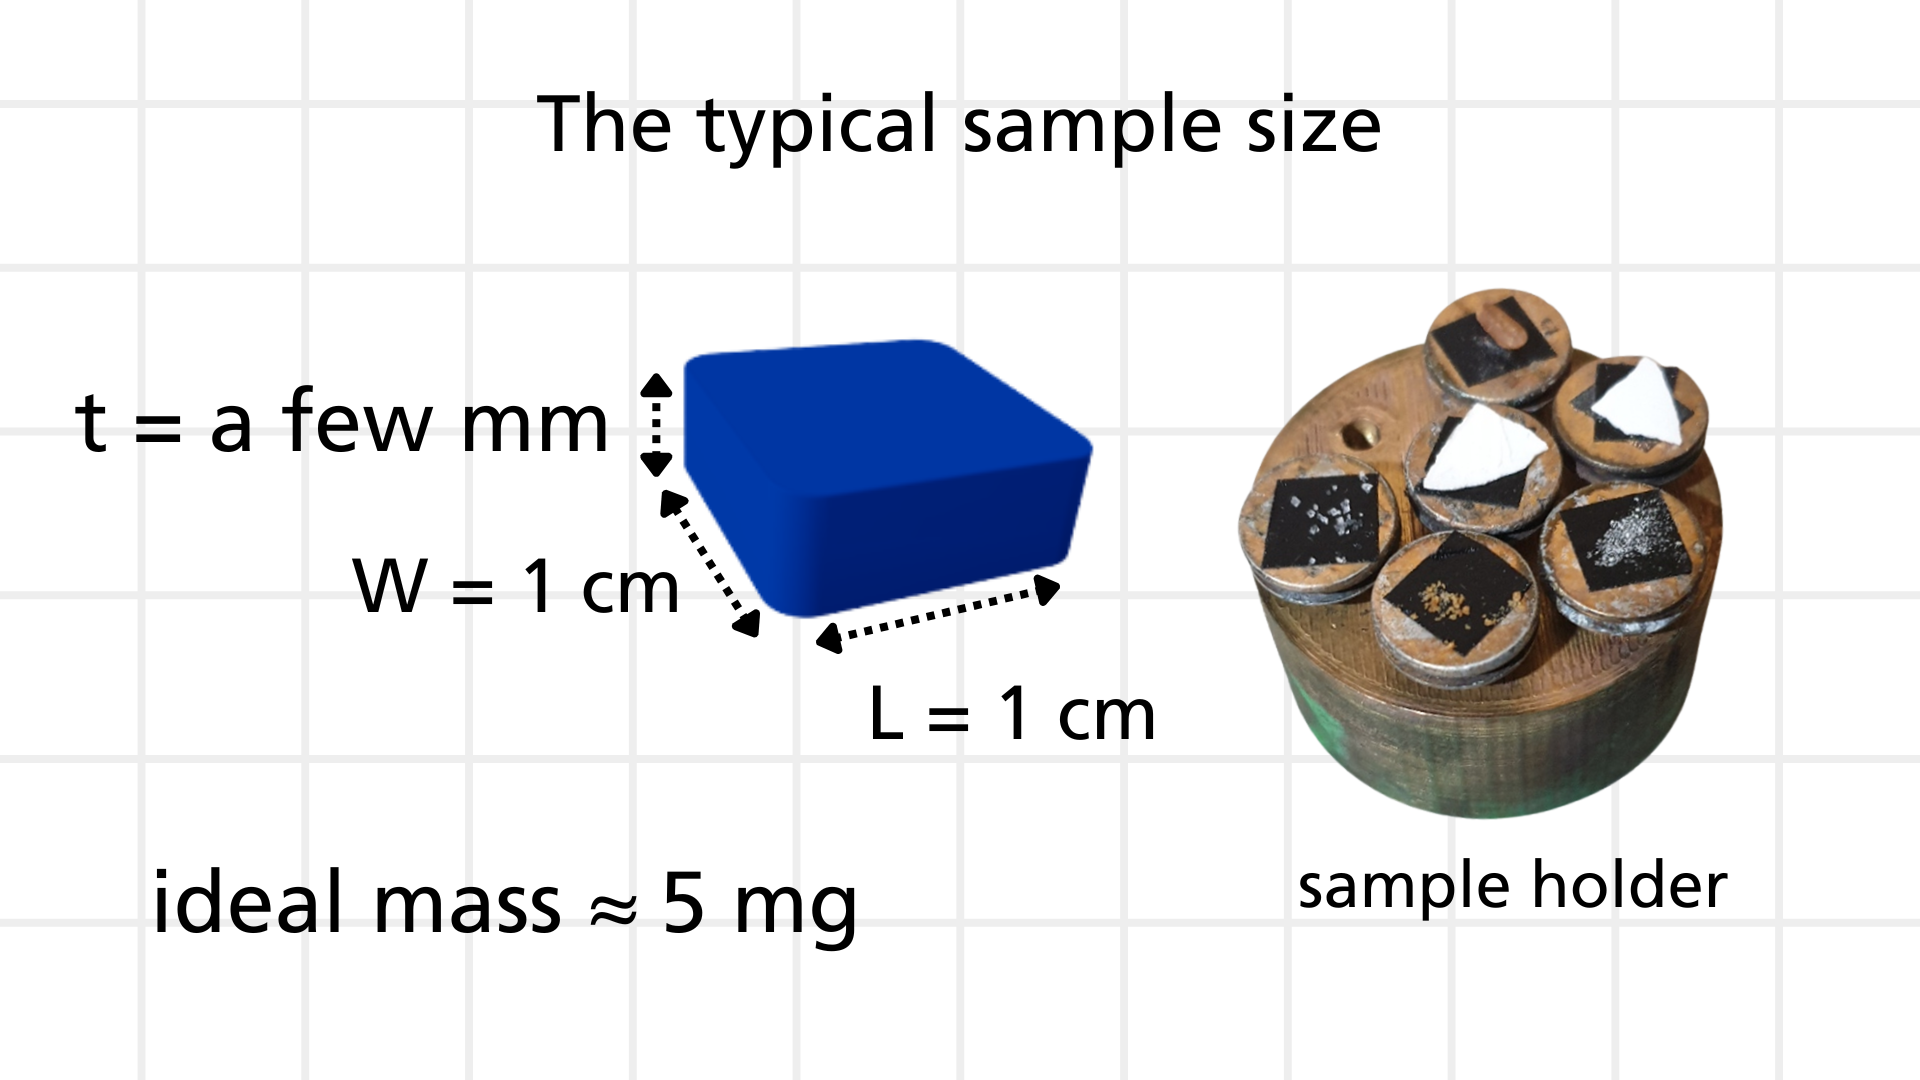
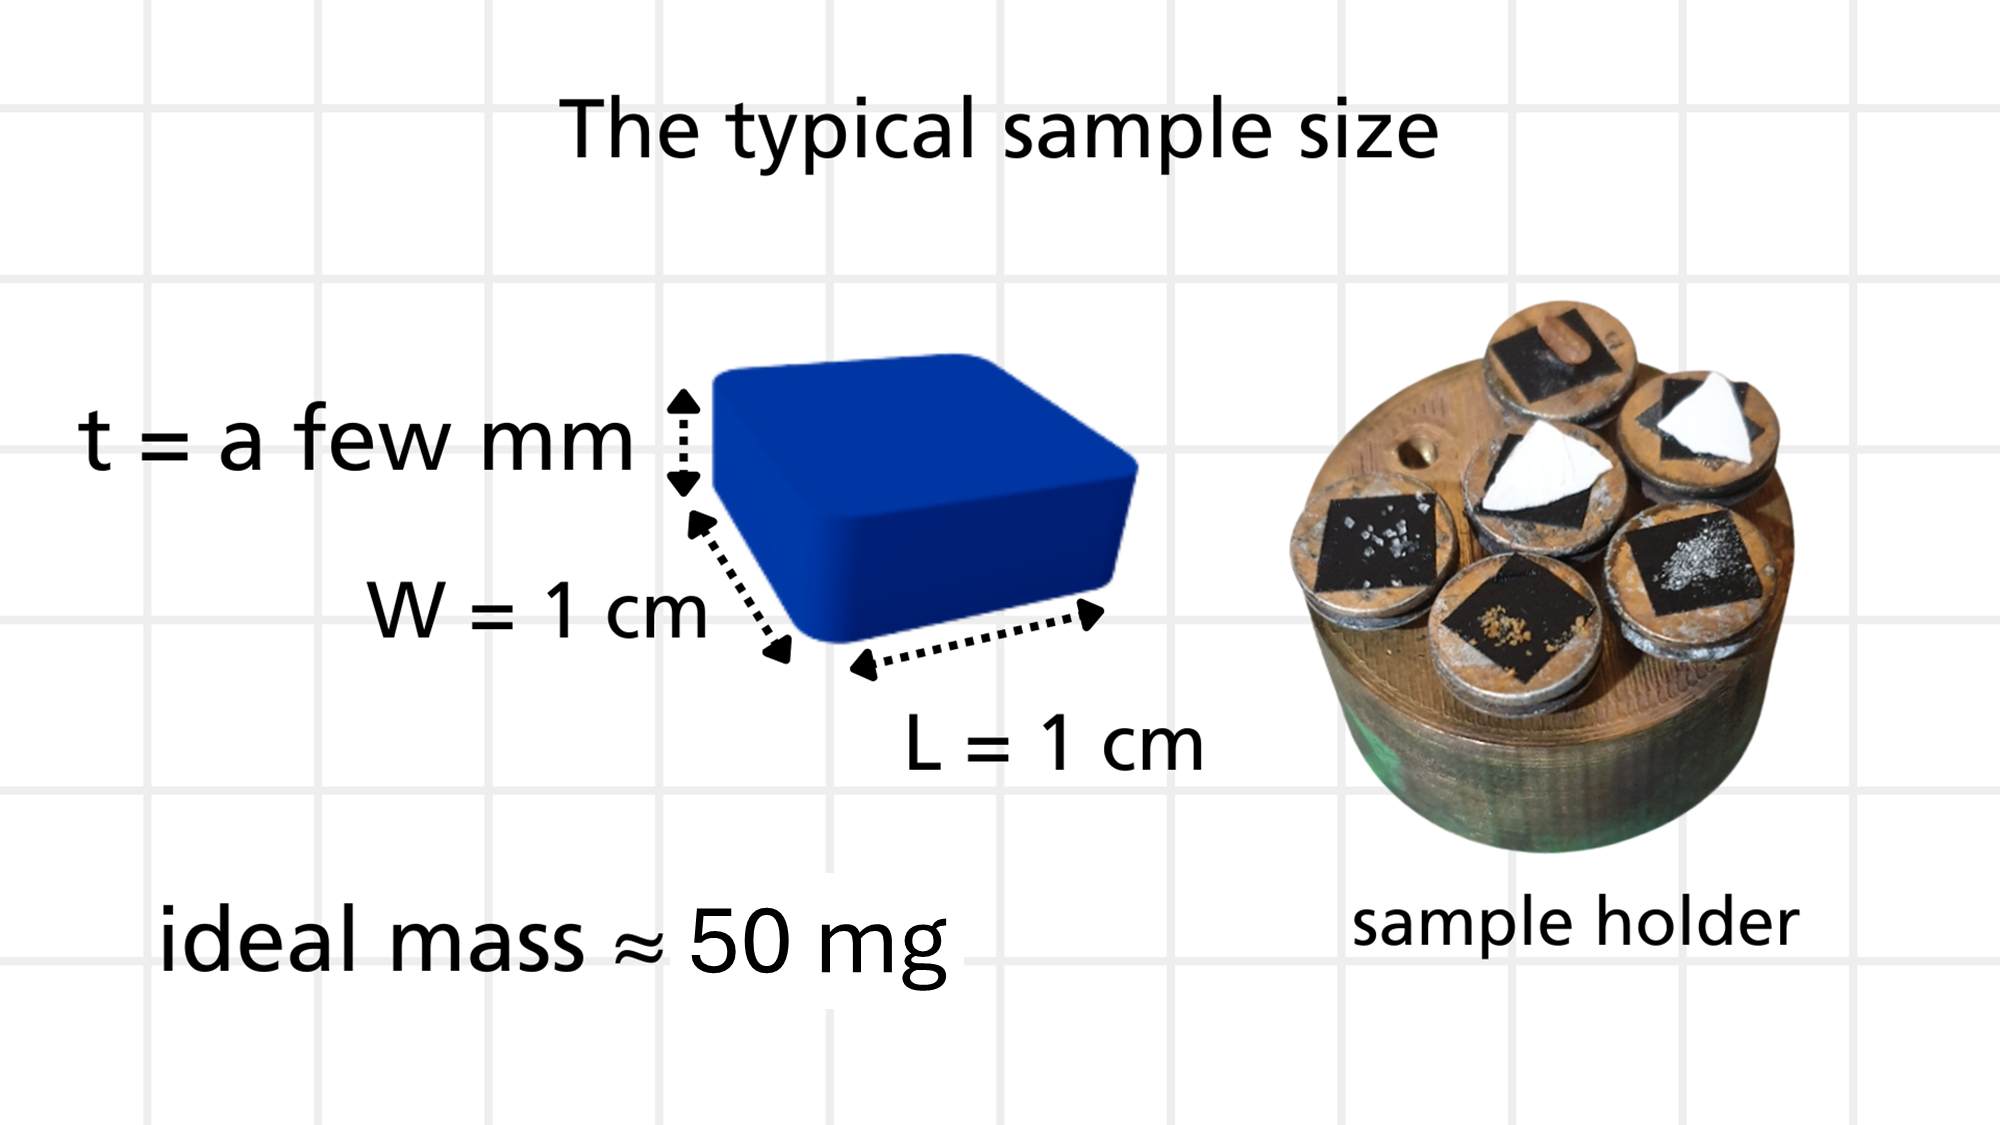
fix: update sample mass requirement from 5 mg to 50 mg for imaging and EDX analysis

diff --git a/index.html b/index.html
@@ -2049,7 +2049,7 @@
                         <div class="step-icon">1</div>
                         <h4>Sample Mass & Size</h4>
                         <img class="prep-photo" src="Images/samplemasssize.png" alt="Sample mass and size example" loading="lazy" decoding="async" onerror="this.onerror=null; this.style.display='none';">
-                        <p>For best imaging and EDX analysis, submit small, solid samples. A typical sample should have a surface area of around 1 cm² and a thickness of a few millimeters. Only a small amount of material is required—an ideal mass is just a few milligrams (≈ 5 mg).</p>
+                        <p>For best imaging and EDX analysis, submit small, solid samples. A typical sample should have a surface area of around 1 cm² and a thickness of a few millimeters. Only a small amount of material is required—an ideal mass is just a few milligrams (≈ 50 mg).</p>
                     </div>
                     <div class="prep-step">
                         <div class="step-icon">2</div>